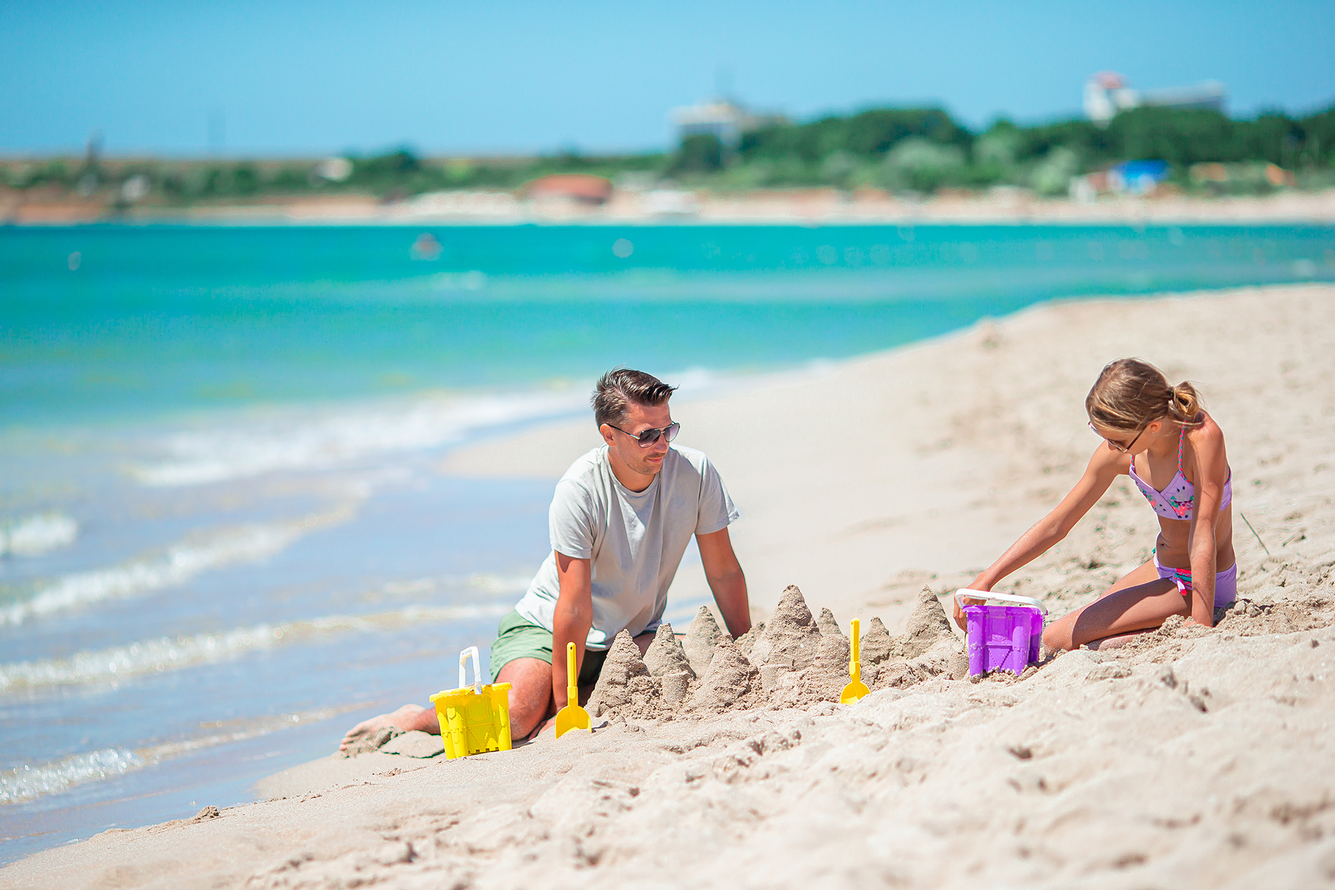
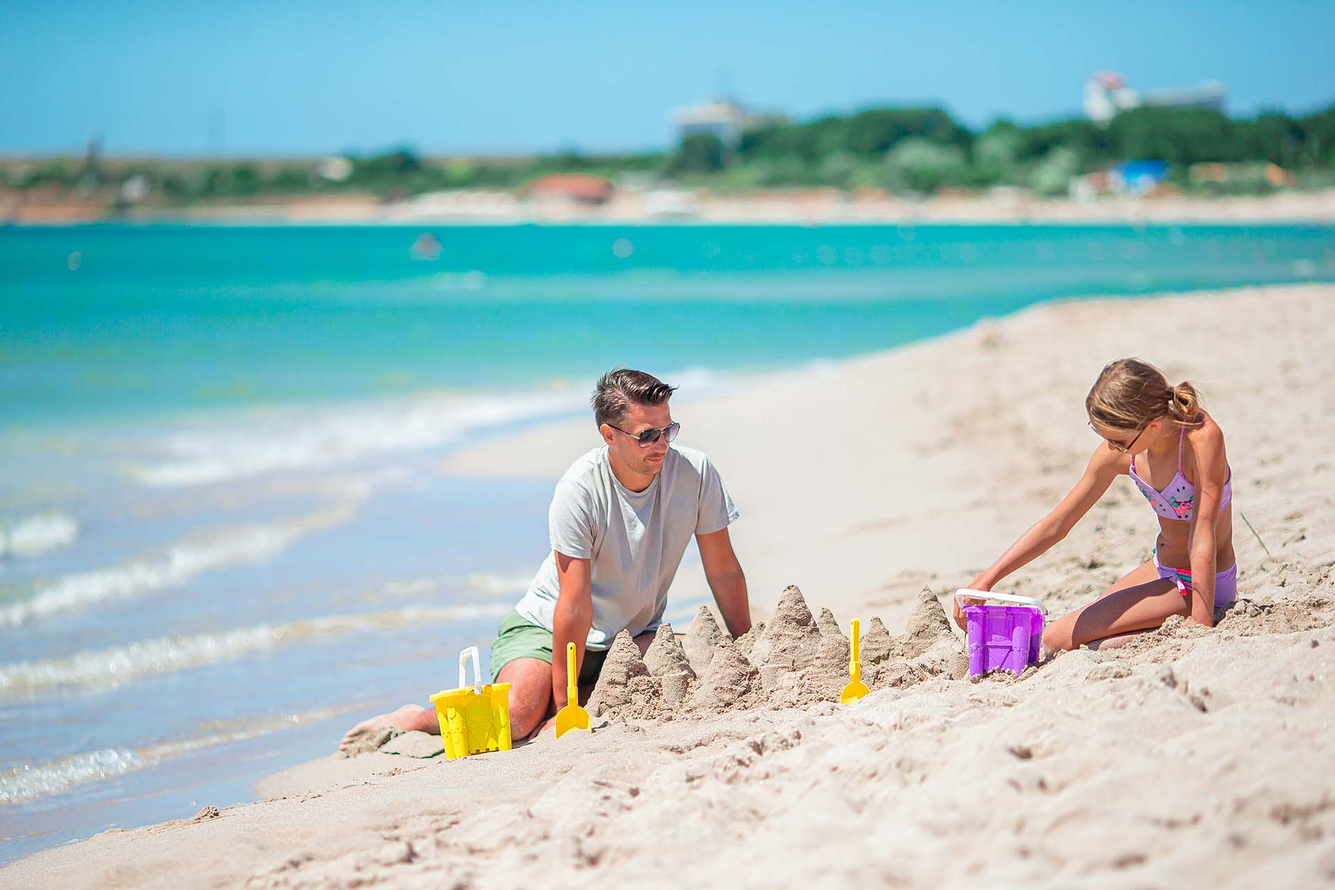
image file downsize

diff --git a/src/components/clark/Clark.jsx b/src/components/clark/Clark.jsx
@@ -5,11 +5,25 @@ import Clark2 from "./images/2.jpg";
 import Clark3 from "./images/3.jpg";
 import Clark4 from "./images/4.jpg";
 
+import AOS from "aos";
+import "aos/dist/aos.css";
+import { useEffect } from "react";
+
 export default function Clark() {
+  useEffect(() => {
+    AOS.init({
+      duration: 1000,
+    });
+  });
   return (
     <VStack w="full" alignItems="center" bg="gray.100" py="32">
       <VStack w="7xl" spacing={32}>
-        <VStack w="full" alignItems="flex-start" spacing="8">
+        <VStack
+          data-aos="zoom-in-up"
+          w="full"
+          alignItems="flex-start"
+          spacing="8"
+        >
           <VStack spacing="0" alignItems="flex-start">
             <Text fontSize="20">Junior Camp in Clark</Text>
             <Text fontWeight={900} fontSize="40">

diff --git a/src/components/about/About.jsx b/src/components/about/About.jsx
@@ -7,6 +7,7 @@ import {
   Text,
   VStack,
 } from "@chakra-ui/react";
+
 import AOS from "aos";
 import "aos/dist/aos.css";
 import { useEffect } from "react";
